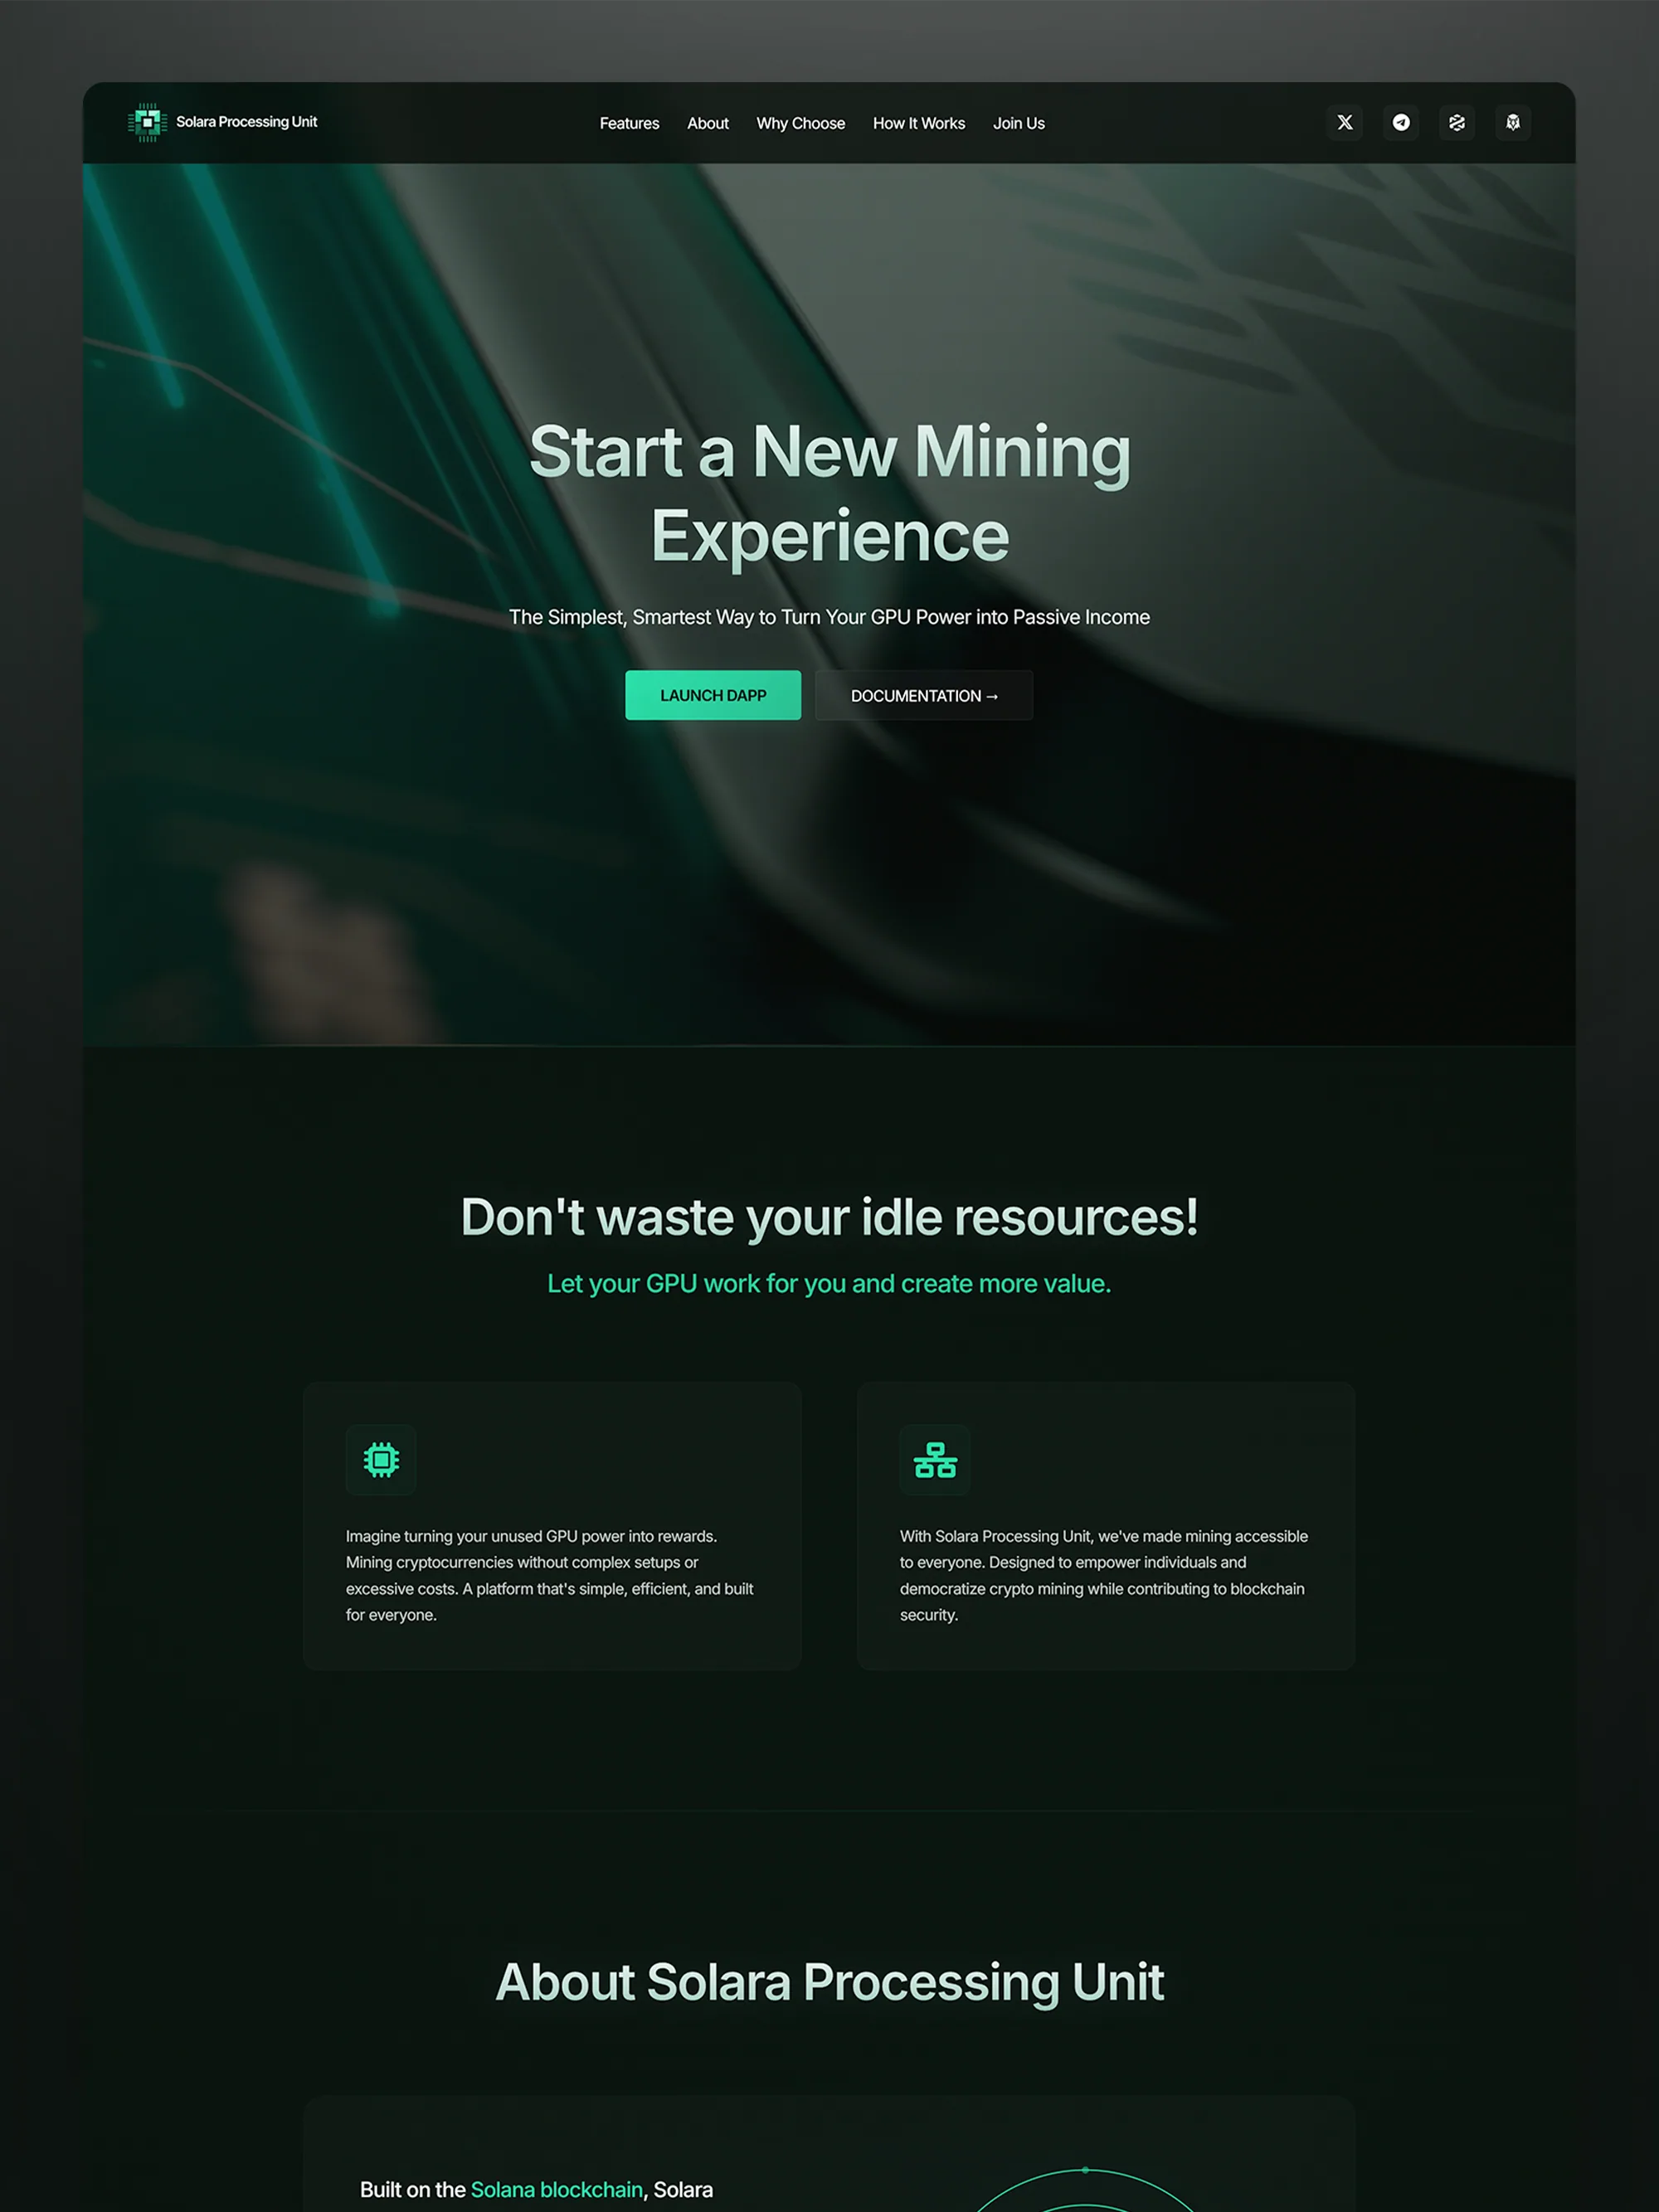
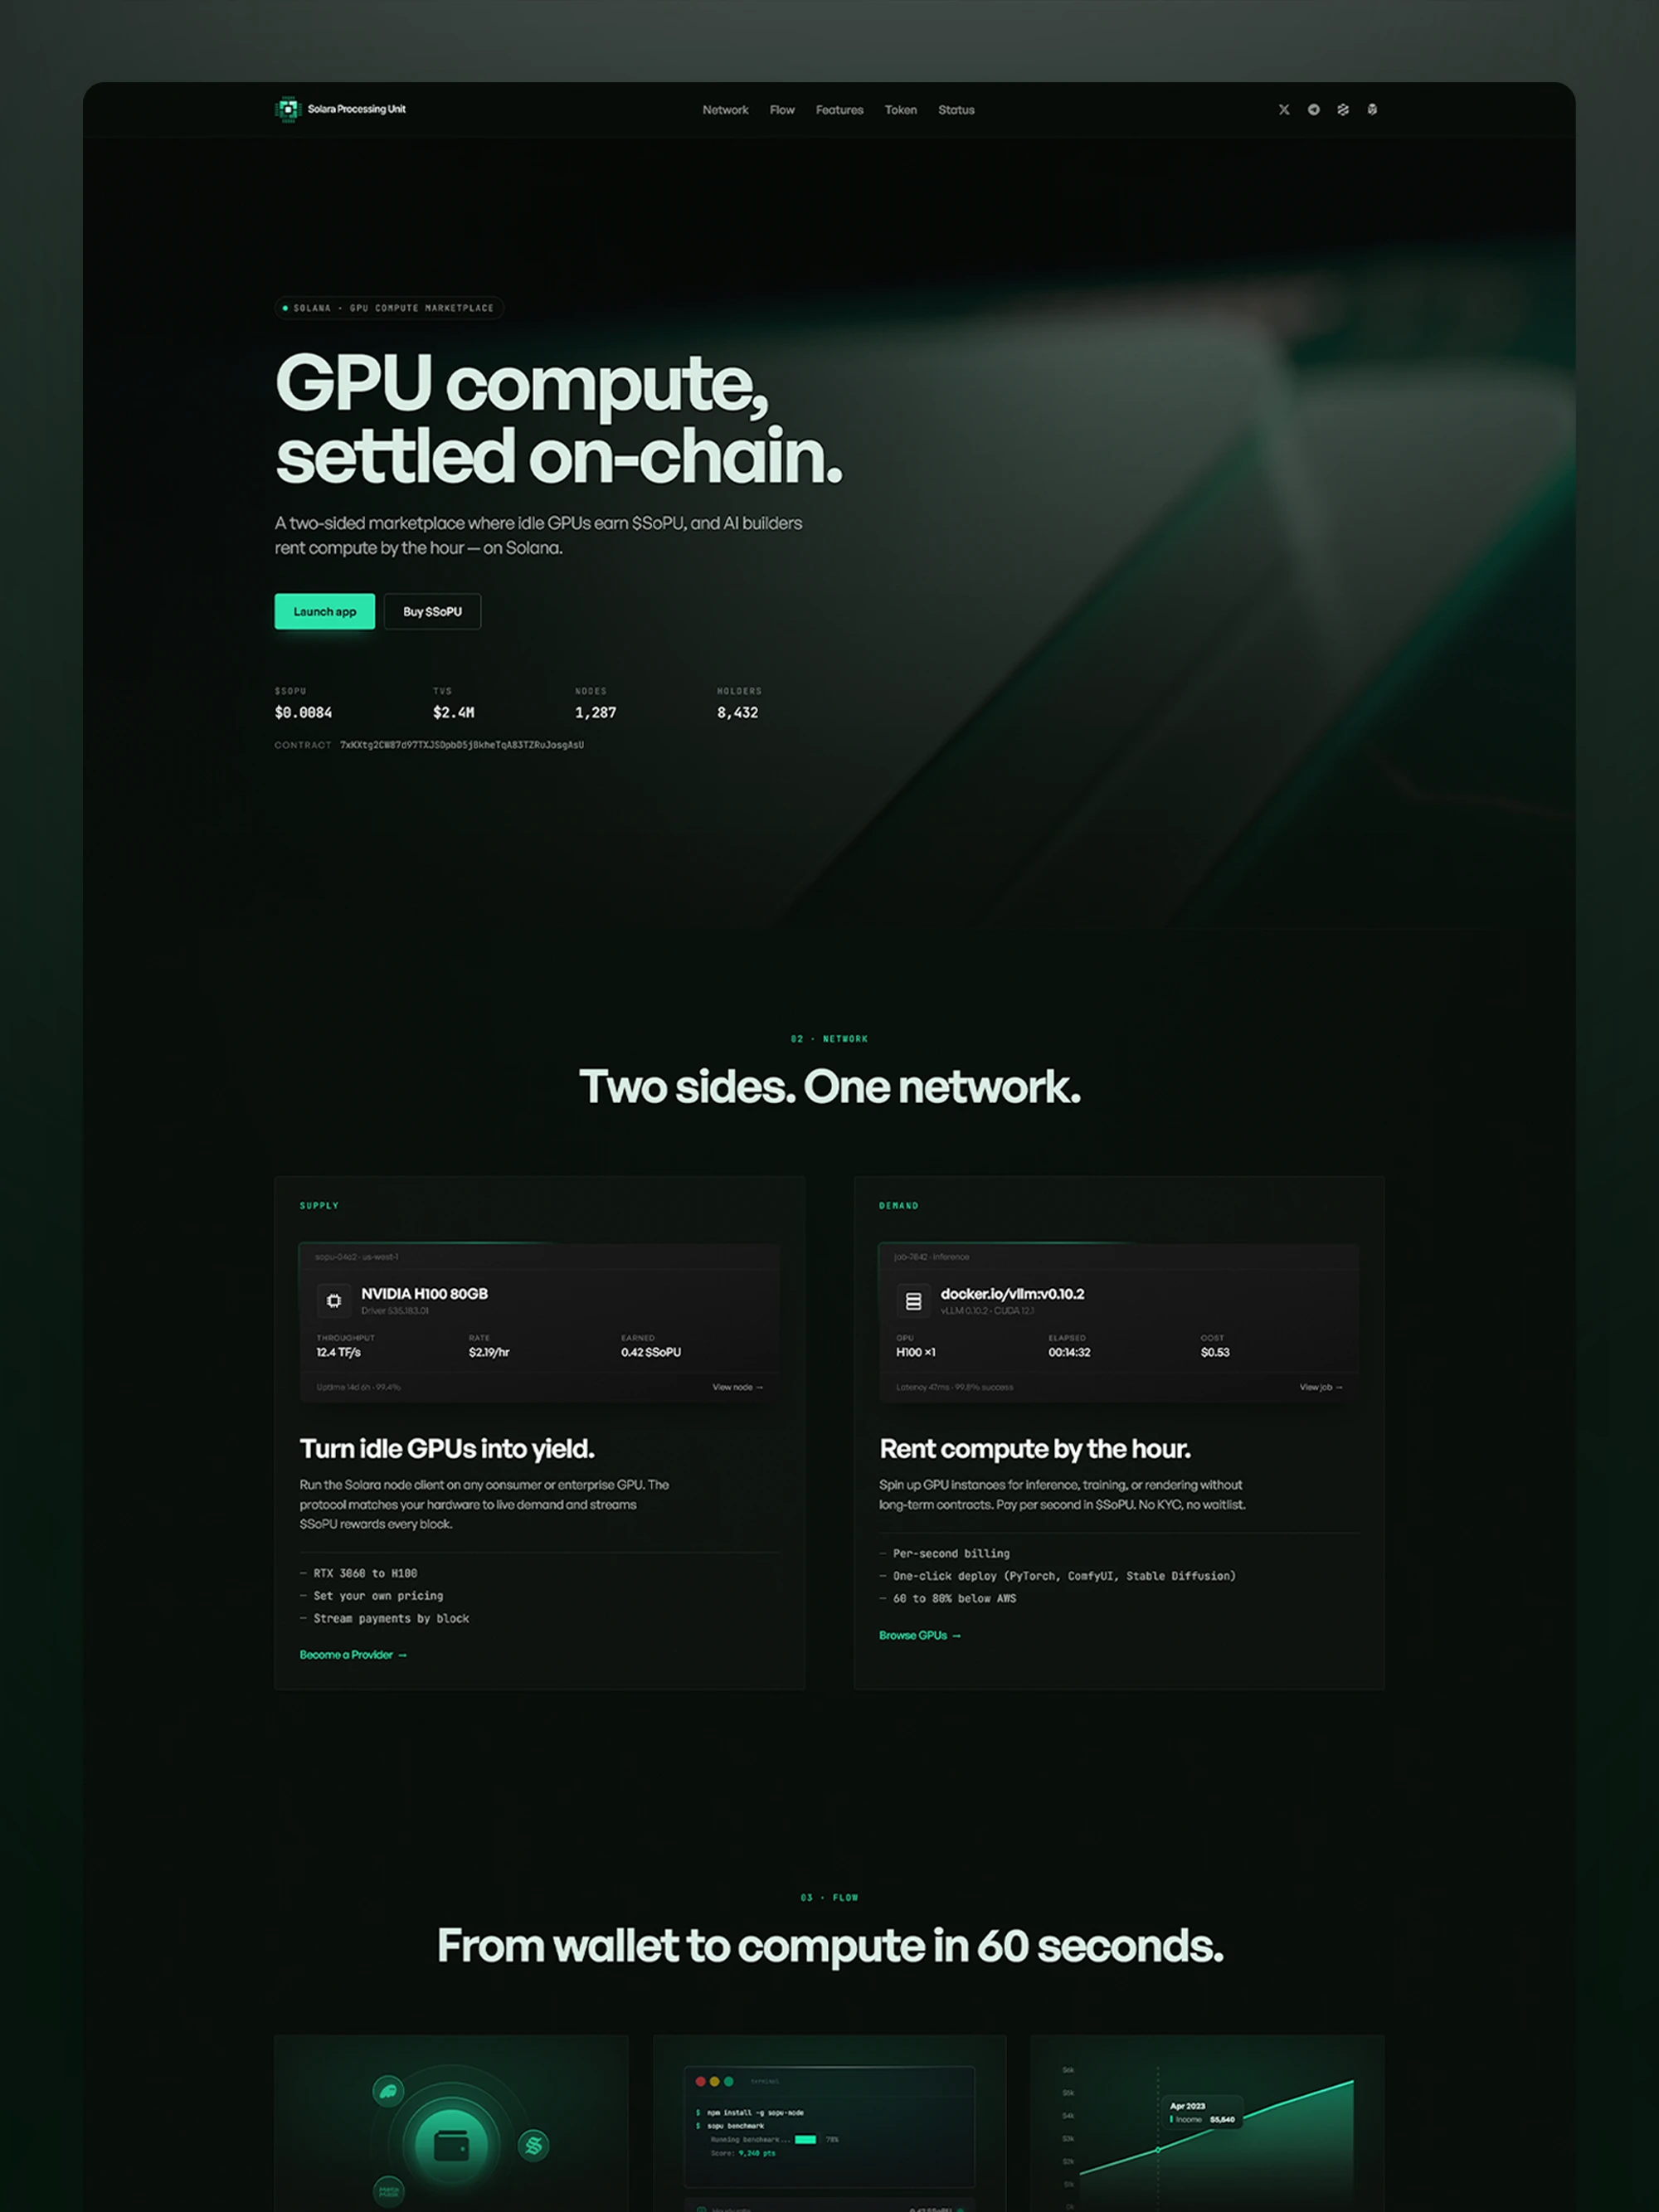
update sopu

diff --git a/src/components/WebDesignSection.tsx b/src/components/WebDesignSection.tsx
@@ -13,7 +13,7 @@ gsap.registerPlugin(ScrollTrigger);
 const LABEL = "Web Design";
 
 const projects = [
-  { slug: "sopu",        title: "Solara Processing Unit", subtitle: "为去中心化 GPU 算力平台打造的品牌官网，科技感视觉语言配合动态背景，传达产品的效率与未来感。", thumbnail: "/thumbnail_sopu.webp",       url: "https://designer789.github.io/SoPU/" },
+  { slug: "sopu",        title: "Solara Processing Unit", subtitle: "去中心化 GPU 算力租赁平台官网，科技感视觉语言配合产品界面，传达产品的效率与信任感。", thumbnail: "/thumbnail_sopu.webp",       url: "https://ycai5160.github.io/Sopu_backup/" },
   { slug: "sonicai",     title: "Sonic AI",               subtitle: "Solana 上首个个性化 DeFAI 代理平台，官网以高对比度视觉突出产品的速度感与自动化特性。", thumbnail: "/thumbnail_sonicai.webp",    url: "https://designer789.github.io/Sonic-AI/" },
   { slug: "pulse",       title: "Pulse",                  subtitle: "公平代币发行 DEX 的官网设计，以动感视觉节奏呼应产品「Launch. Curve. Soar.」的品牌调性。", thumbnail: "/thumbnail_pulse.webp",      url: "https://designer789.github.io/Pulse/" },
   { slug: "infolaunch",  title: "Info.Launch",            subtitle: "为 AI 项目代币发行平台设计的官网，以简洁的信息层级呈现复杂的 DeFi 机制。", thumbnail: "/thumbnail_infolaunch.webp", url: "https://infolaunch.netlify.app/" },